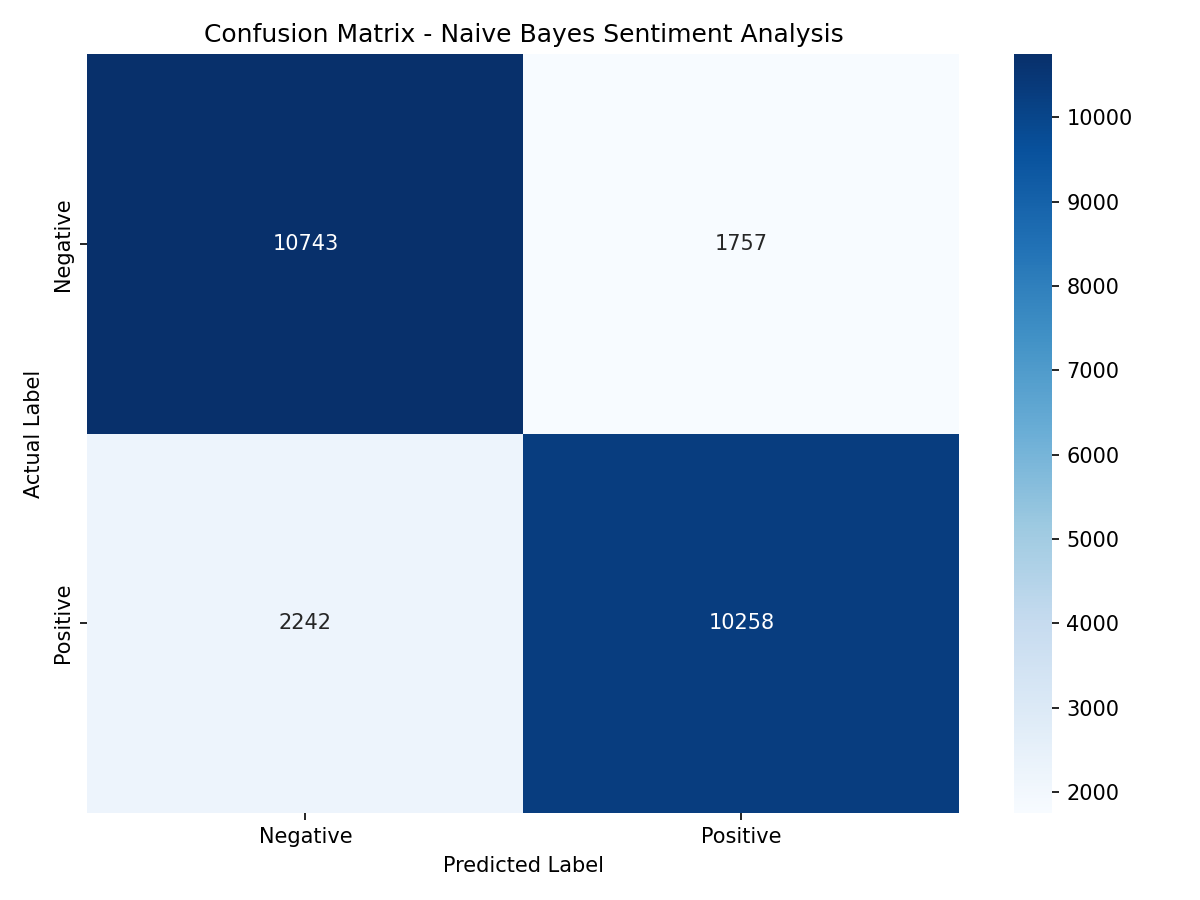
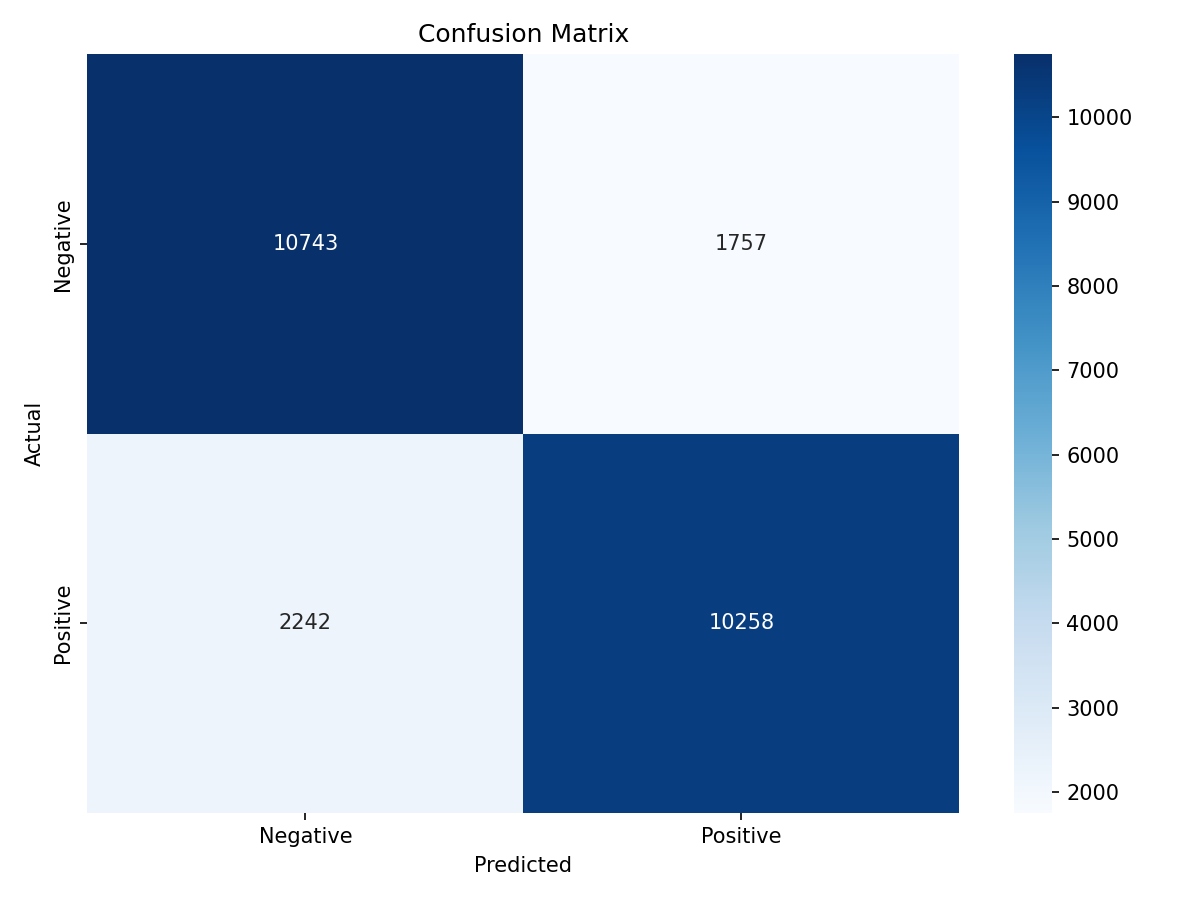
Update confusion matrix, README and main.py

Changed region(s): [[0.185, 0.0311, 0.7092, 0.0622], [0.0, 0.4044, 0.0308, 0.56], [0.37, 0.9333, 0.4933, 0.9644]]

diff --git a/main.py b/main.py
@@ -22,8 +22,7 @@ except AttributeError:
 nltk.download('stopwords', quiet=True)
 nltk.download('wordnet', quiet=True)
 
-# Download and extract dataset if not already present
-url = "http://ai.stanford.edu/~amaas/data/sentiment/aclImdb_v1.tar.gz"
+url = "https://ai.stanford.edu/~amaas/data/sentiment/aclImdb_v1.tar.gz"
 filename = "aclImdb_v1.tar.gz"
 
 if not os.path.exists("aclImdb"):
@@ -57,14 +56,12 @@ print("Cleaning reviews...")
 train_df['cleaned'] = train_df['review'].apply(clean_text)
 test_df['cleaned'] = test_df['review'].apply(clean_text)
 
-# TF-IDF vectorization
 vectorizer = TfidfVectorizer(max_features=5000)
 X_train = vectorizer.fit_transform(train_df['cleaned'])
 X_test = vectorizer.transform(test_df['cleaned'])
 y_train = train_df['label']
 y_test = test_df['label']
 
-# Train and evaluate
 model = MultinomialNB()
 model.fit(X_train, y_train)
 predictions = model.predict(X_test)
@@ -72,7 +69,6 @@ predictions = model.predict(X_test)
 print(f"\nAccuracy: {accuracy_score(y_test, predictions) * 100:.2f}%")
 print(classification_report(y_test, predictions, target_names=['Negative', 'Positive']))
 
-# Save confusion matrix
 os.makedirs("images", exist_ok=True)
 cm = confusion_matrix(y_test, predictions)
 plt.figure(figsize=(8, 6))

diff --git a/README.md b/README.md
@@ -1,76 +1,58 @@
-# 🎬 IMDb Movie Review Sentiment Analysis
+# IMDb Movie Review Sentiment Analysis
 
-> **An automated, end-to-end Natural Language Processing (NLP) pipeline for binary sentiment classification using TF-IDF and Multinomial Naive Bayes.**
+A sentiment classifier trained on 50,000 IMDb movie reviews using TF-IDF and Naive Bayes.
 
-## 📌 Project Overview
-This repository contains a robust machine learning baseline model designed to classify the sentiment of 50,000 IMDb movie reviews. By applying strict text preprocessing (lemmatization, stop-word removal, regex cleaning) and Term Frequency-Inverse Document Frequency (TF-IDF) vectorization, the model categorizes reviews as either Positive or Negative with a solid baseline accuracy of **84.00%**.
+## Overview
+This project classifies movie reviews as positive or negative using the [Stanford IMDb dataset](https://ai.stanford.edu/~amaas/data/sentiment/). Reviews are cleaned with lemmatization and stop word removal, then vectorized with TF-IDF before being passed to a Multinomial Naive Bayes classifier.
 
-Unlike typical academic scripts that require manual dataset configuration, this project features a **fully automated pipeline**. A single execution of `main.py` handles everything from fetching the Stanford dataset to generating visual evaluation metrics.
+The script automatically downloads the dataset on first run, so no manual setup is needed.
 
-## ✨ Key Features
-* **Zero-Setup Data Fetching:** The script automatically downloads and extracts the 50k Stanford IMDb dataset if it is not found locally.
-* **Automated Visualizations:** Automatically generates and saves the Confusion Matrix heatmap into an `images/` directory.
-* **Streamlined Architecture:** Uses a single, highly readable script rather than an overly complex, fragmented folder structure.
+## Tech Stack
 
-## ⚙ Tech Stack & Methodology
-
-| Component | Details |
+| | |
 |---|---|
-| Language | Python 3.x |
-| Core Libraries | Scikit-learn, NLTK, Pandas, Matplotlib, Seaborn |
-| Text Processing | Lowercasing, Regex Cleaning, Stop Word Removal, WordNet Lemmatization |
-| Feature Extraction | TF-IDF Vectorization (max_features=5000) |
-| Algorithm | Multinomial Naive Bayes |
+| Language | Python 3 |
+| Libraries | scikit-learn, NLTK, pandas, matplotlib, seaborn |
+| Text Preprocessing | Lowercasing, regex cleaning, stop word removal, lemmatization |
+| Vectorization | TF-IDF (5000 features) |
+| Model | Multinomial Naive Bayes |
 
-## 🚀 Quick Start
+## Getting Started
 
-Because the script handles the data downloading automatically, running this project takes only three commands:
+```bash
+git clone https://github.com/siliconsagenerd/NLP_Movie_Reviews.git
+cd NLP_Movie_Reviews
+pip install -r requirements.txt
+python main.py
+```
 
-1. **Clone this repository:**
-   ```bash
-   git clone https://github.com/siliconsagenerd/NLP_Movie_Reviews.git
-   cd NLP_Movie_Reviews
-   ```
+> The dataset (~84MB) is downloaded automatically on the first run.
 
-2. **Install dependencies:**
-   ```bash
-   pip install -r requirements.txt
-   ```
+## Results
 
-3. **Run the pipeline:**
-   ```bash
-   python main.py
-   ```
-   > ⏳ On first run, the script will automatically download the dataset (~84MB). Preprocessing 50,000 reviews takes about 1–2 minutes.
-
-## 📊 Results
-
-| Metric | Negative | Positive |
+| | Negative | Positive |
 |---|---|---|
-| Precision | ~84% | ~84% |
-| Recall | ~84% | ~84% |
-| F1-Score | ~84% | ~84% |
-| **Overall Accuracy** | **84.00%** | |
+| Precision | 83% | 85% |
+| Recall | 86% | 82% |
+| F1-Score | 84% | 84% |
+| **Accuracy** | **84.00%** | |
 
-## 🖼 Confusion Matrix
+## Confusion Matrix
 
 ![Confusion Matrix](images/confusion_matrix.png)
 
-## 📁 Project Structure
+## Project Structure
 ```
 NLP_Movie_Reviews/
-├── main.py               # Full pipeline: download → clean → train → evaluate
+├── main.py
 ├── README.md
 ├── requirements.txt
 ├── results.txt
 ├── data/
-│   └── dataset_link.txt  # Link to the original Stanford dataset
+│   └── dataset_link.txt
 └── images/
     └── confusion_matrix.png
 ```
 
-## 📂 Dataset
-The 50,000 IMDb movie review dataset is sourced from the [Stanford AI Lab](https://ai.stanford.edu/~amaas/data/sentiment/) and is **downloaded automatically at runtime**. You do not need to download it manually.
-
-## 📄 License
-This project is open source and available under the [MIT License](LICENSE).
+## Dataset
+The dataset is from the [Stanford AI Lab](https://ai.stanford.edu/~amaas/data/sentiment/) and contains 25,000 training and 25,000 test reviews.
